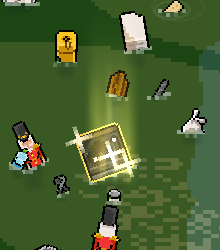
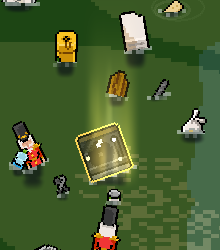
Lake Cleanup: the shop's net card draws the lake's own net across the card
The NET card's net was a small baked picture. The card now draws the net itself,
with the lake's shader at the lake's grain, filling 94% of the card's width; the
card being far wider than tall, the net is seen from lower down, its height
squashed to fit. It drifts whole pixels on the swell and its shape never moves
(a rim ripple shimmered). Its catch and the rubbish round it drop to 1x. The old
foam collar, NET_GROW and CATCH_SCALE are gone.

The upgrades button draws the net's picture at whole steps, so its cord stays a
pixel wide. The letter's stills are re-shot.

diff --git a/Lake Cleanup/CLAUDE.md b/Lake Cleanup/CLAUDE.md
@@ -3075,10 +3075,20 @@ dots. It is redrawn as pixel art by rule, picked off `tools/last_net_mockup.png`
 - **Draw order**: this node draws the catch; its first child `NetMesh` (the shader) the net
   over it; then the rope and the stars; the aim ring is on the last child (`AimLayer`), so
   nothing hides it.
-- **One net everywhere**: `CastNet.bake_picture` renders a lying net once in a
-  `SubViewport` with the same shader and the lake lends it (`_lend_net_picture`) to the
-  shop board's head (drawn at whole steps) and the upgrades button. Headless renders nothing
-  and lends nothing. `Style.NET_INK` no longer tints them. The letter's stills were re-shot.
+- **One net everywhere**: the shop's NET card draws the lake's own net itself
+  (`ShopCard._lay_net`, a `CastNet.NetMesh` child, same shader), at the lake's grain, one
+  card px a net px, `NET_FILL` (0.94) of the card's width; the card being 3.5 times wider
+  than tall, the net is seen from lower down, its height squashed to what the card leaves
+  (`NetShape.squash`, never under `NET_SQUASH_LEAST`), wandering `NET_SWAY` whole px as one
+  picture. **Its shape never moves**: a rim ripple shifted it by fractions of a pixel a
+  frame and the strands hopping between pixels shimmered (Richard: "looks glitched"). Its catch and the rubbish round it are at 1x too (Richard, same day: the
+  card's net was too small; "lake's grain, fills the card" picked over a chunky 2 px net
+  cropped by the card). The upgrades button (HUD and shed copy) draws a picture rendered
+  once by the same shader in a `SubViewport` (`CastNet.bake_picture`, lent by
+  `_lend_net_picture`) at whole steps. Headless renders and lends nothing. `Style.NET_INK`
+  tints nothing in the game. **Retired** with it: the card's foam collar
+  (`NET_WATERLINE`/`NET_COLLAR`, laid at the old etching's waterline), `NET_GROW`,
+  `CATCH_SCALE`. The letter's stills were re-shot.
 - **Retired**: `assets/net_frames.png`/`.json`, `assets/sliced_net.png`, `tools/slice_net.gd`,
   `tools/shot_nethold`; the two etching JPEGs moved to `art_source/retired_assets/net/`.
 - **Cost** (`bench_frames`, RTX 5060 Ti, 1080p): a plain cast 5.1 ms mean; the worst case
@@ -3773,7 +3783,8 @@ more kinds of plant, and beds of pads and reeds out on the open water. `scripts/
 - **Head cards** (`shop_card.gd`): the dogs' strip has no ferry; the boats' card is water
   and ferry only (`CLEAN_PIECES` 0); the net's card floats 6 pieces (`DIRTY_PIECES`), its
   water lifted `NET_WATER_LIFT` towards the lightest step, and the net and its catch are
-  drawn `ShopSkin.NET_GROW` 1.5 times bigger; the luck box starts with a heap
+  drawn `ShopSkin.NET_GROW` 1.5 times bigger (**superseded 2026-10-02**: the card draws the
+  lake's own net across its width, see The Net Drawn by Rule); the luck box starts with a heap
   (`HEAP_START` 4, growing to `HEAP_MOST` 9 and starting over) and the piece drops into it,
   the near walls (`Yard._cut_front`) drawn over both.
 - **The pricing plate** spreads its four columns over the whole face and reaches
